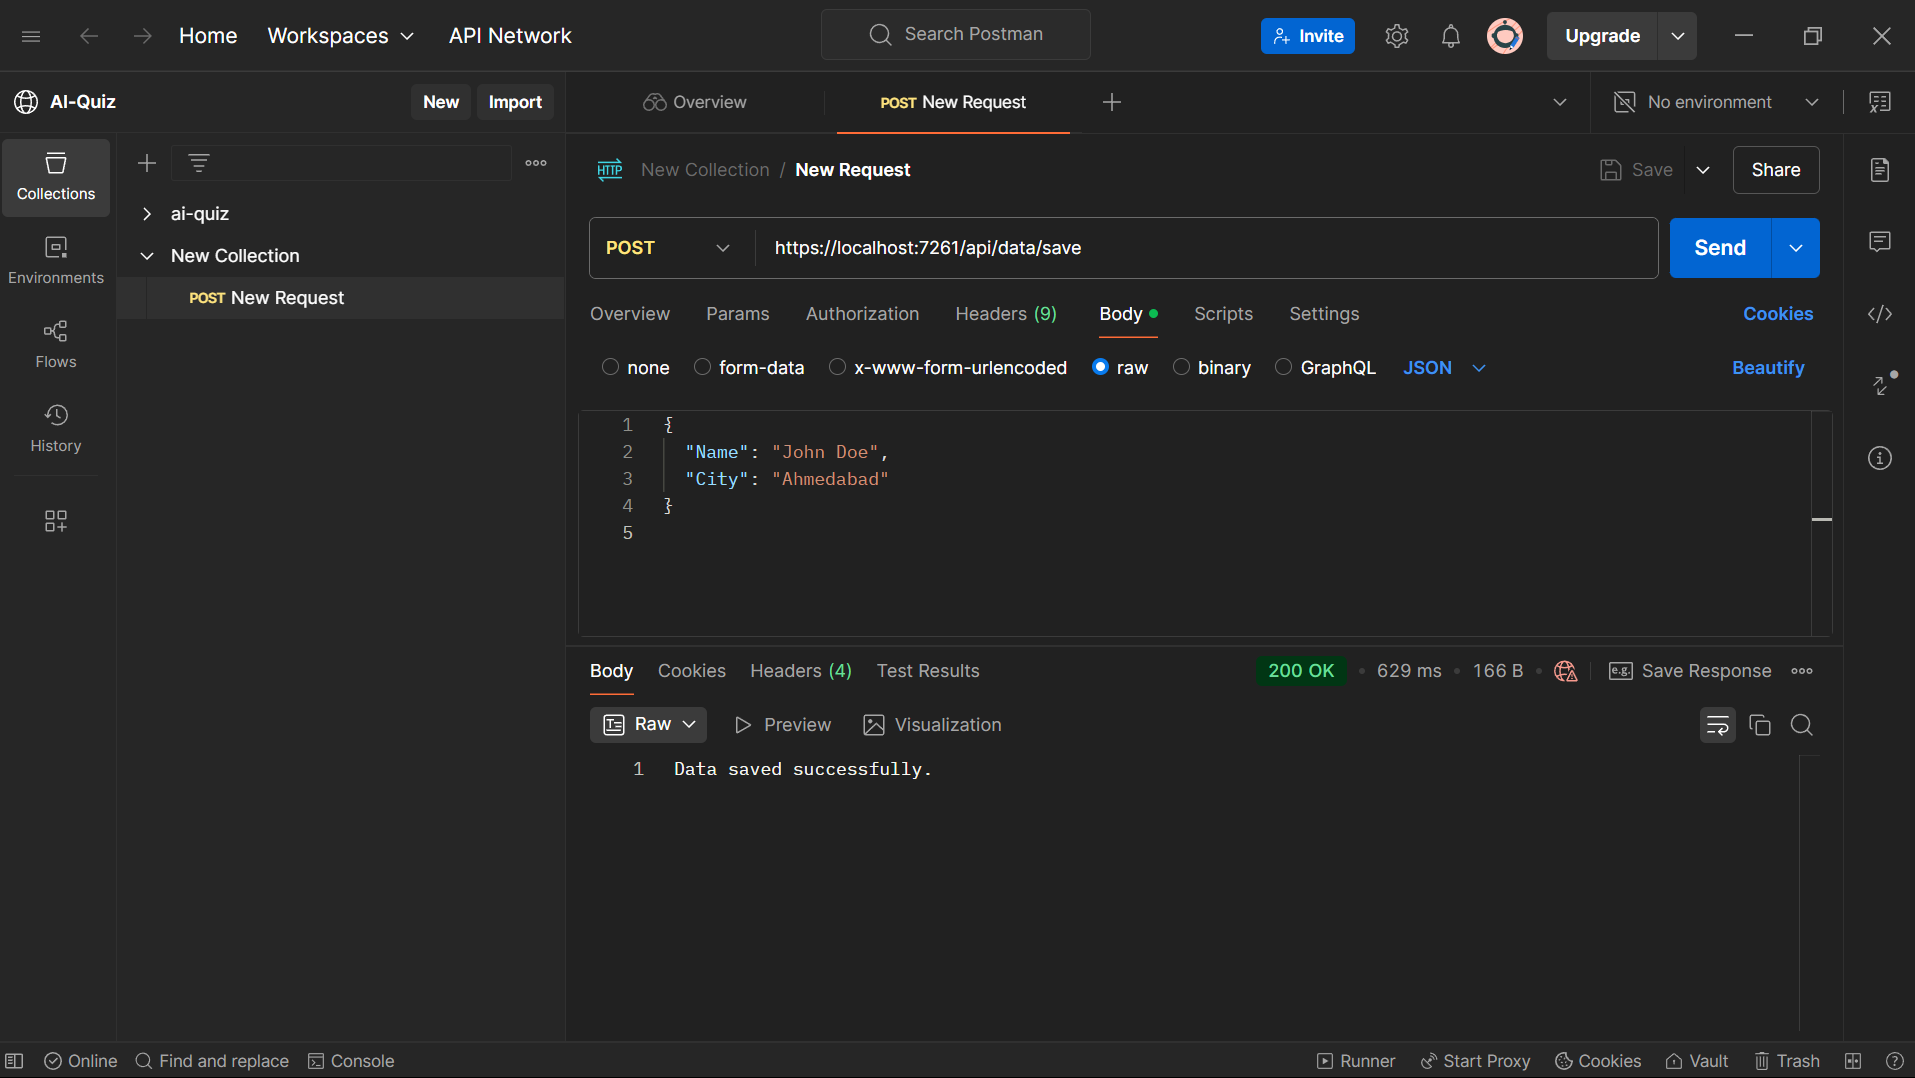
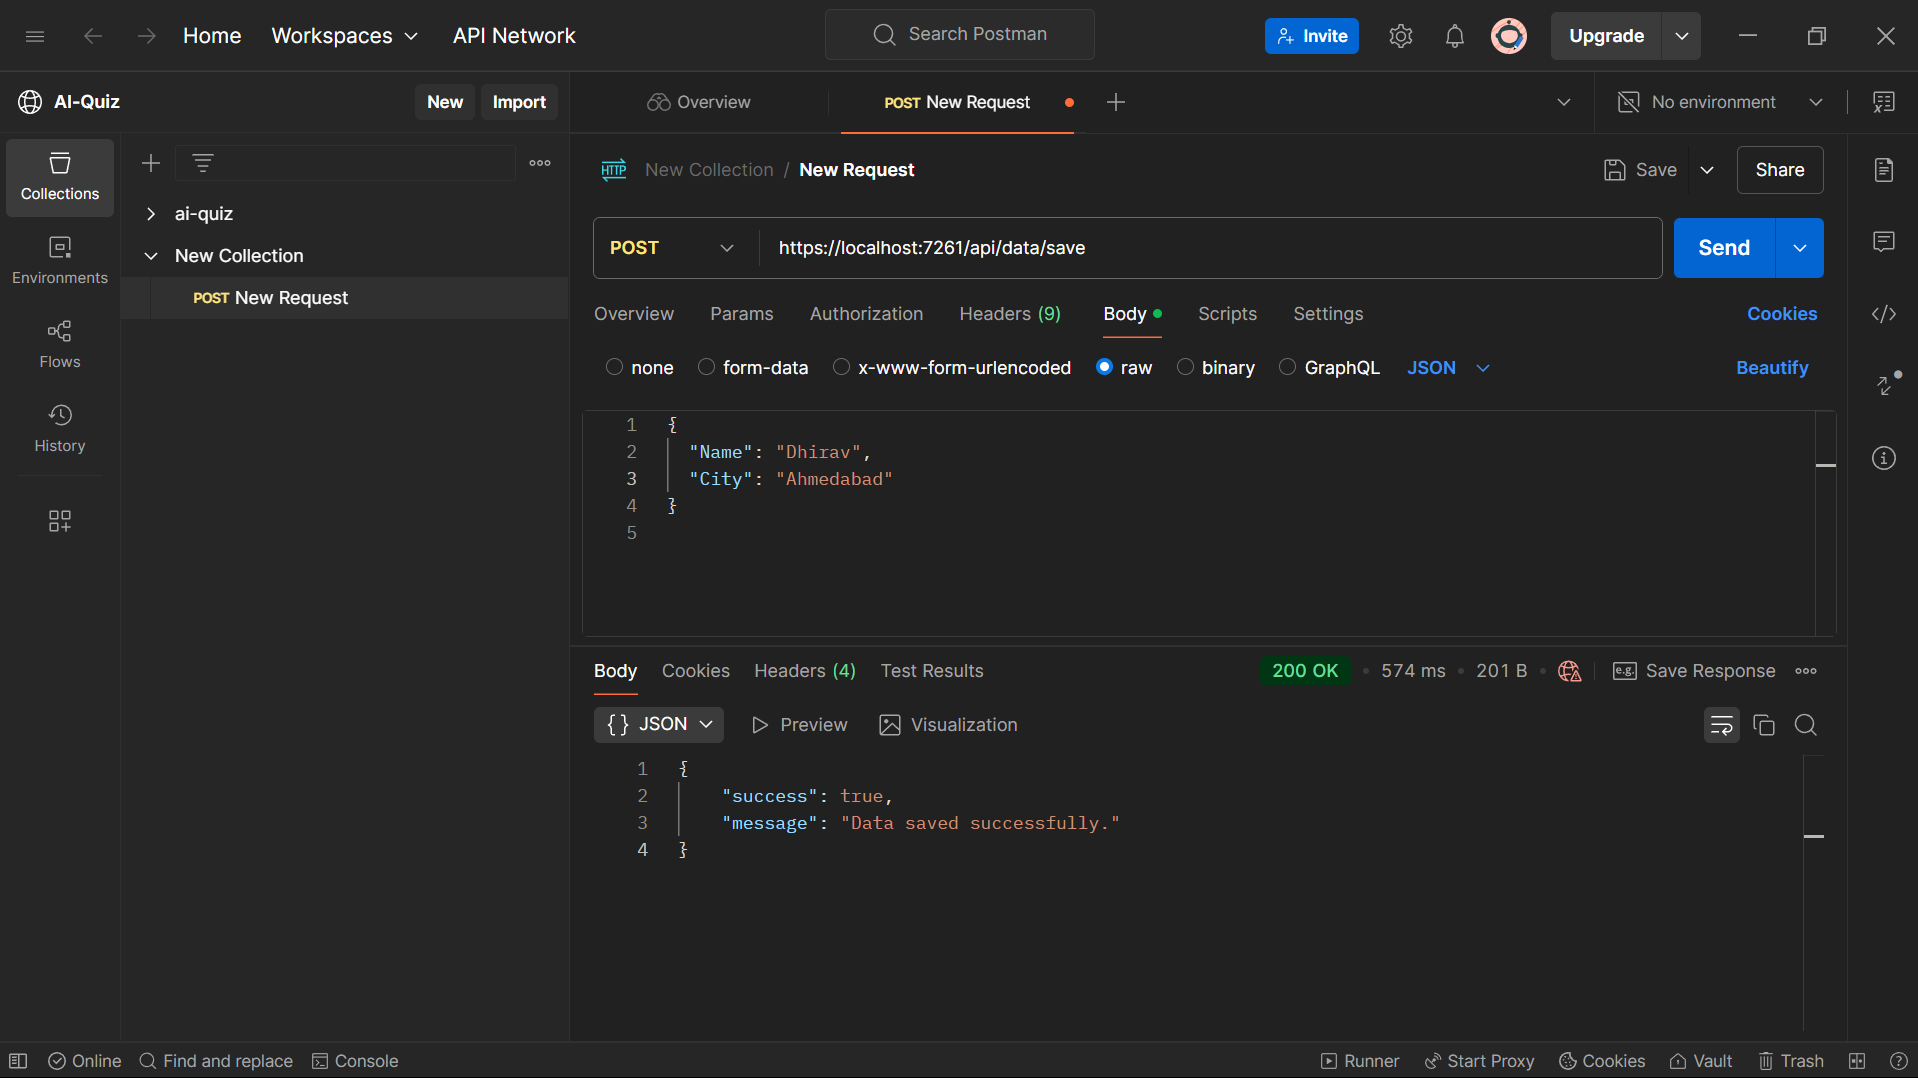
Update ....

diff --git a/ASP.Net Core Day1/Controllers/DataController.cs b/ASP.Net Core Day1/Controllers/DataController.cs
@@ -10,100 +10,75 @@ using System.ComponentModel.DataAnnotations;
 [ApiController]
 public class DataController : ControllerBase
 {
-    // Your WeatherAPI key
     private const string WeatherApiKey = "564f9dd8a1464c58a3981325251802";
-    private const string WeatherApiUrl = "http://api.weatherapi.com/v1/current.json"; // Change if necessary
+    private const string WeatherApiUrl = "http://api.weatherapi.com/v1/current.json";
 
     [HttpPost("save")]
     public async Task<IActionResult> SaveData([FromBody] CityRequest cityRequest)
     {
-        // Ensure the model is valid
         if (!ModelState.IsValid)
         {
-            return BadRequest("Invalid data. Ensure Name and City are provided.");
+            return BadRequest(new ResponseModel(false, "Invalid data. Ensure Name and City are provided."));
         }
 
-        // Normalize city to lowercase (you can also use proper title case if preferred)
         string normalizedCity = NormalizeCity(cityRequest.City);
 
         try
         {
-            // Fetch weather data for the city
             var weatherData = await GetWeatherData(normalizedCity);
 
-            // If no weather data is returned, it means the city wasn't found or there was an error
             if (weatherData == null)
             {
-                return BadRequest($"City '{normalizedCity}' not found or an error occurred fetching weather data.");
+                return BadRequest(new ResponseModel(false, $"City '{normalizedCity}' not found or an error occurred fetching weather data."));
             }
 
-            // Prepare data to save, including name, city, weather, and current date/time
             var dataToSave = new
             {
                 Name = cityRequest.Name,
-                City = normalizedCity,  // Store the normalized city name
-                Weather = weatherData,  // Store as a structured object
+                City = normalizedCity,
+                Weather = weatherData,
                 DateTime = DateTime.Now.ToString("yyyy-MM-dd HH:mm:ss")
             };
 
-            // Convert data to a formatted JSON string using Newtonsoft.Json
             string jsonString = JsonConvert.SerializeObject(dataToSave, Formatting.Indented);
-
-            // Define the file path (you can choose a different location as needed)
             string filePath = Path.Combine(Directory.GetCurrentDirectory(), "SavedData.txt");
 
-            // Append the JSON data to the file asynchronously
-            await System.IO.File.AppendAllTextAsync(filePath, jsonString + Environment.NewLine + Environment.NewLine + Environment.NewLine);
+            await System.IO.File.AppendAllTextAsync(filePath, jsonString + Environment.NewLine + Environment.NewLine);
 
-            // If everything is successful, return a success message
-            return Ok("Data saved successfully.");
+            return Ok(new ResponseModel(true, "Data saved successfully."));
         }
         catch (Exception ex)
         {
-            // Handle any unexpected exceptions
-            return StatusCode(500, $"Internal server error: {ex.Message}");
+            return StatusCode(500, new ResponseModel(false, $"Internal server error: {ex.Message}"));
         }
     }
 
-    // Normalize city name to lowercase (can also use TitleCase if preferred)
     private string NormalizeCity(string city)
     {
         if (string.IsNullOrEmpty(city))
         {
             throw new ArgumentException("City name cannot be empty.");
         }
-
-        // Convert city name to proper case (Title Case)
         return city.Trim().ToLower();
     }
 
-    // Fetch weather data for the specific city using the WeatherAPI
     private async Task<object> GetWeatherData(string city)
     {
         using (var client = new HttpClient())
         {
             try
             {
-                // Build the request URL
                 string requestUrl = $"{WeatherApiUrl}?key={WeatherApiKey}&q={city}&aqi=no";
-
-                // Send a GET request to WeatherAPI
                 var response = await client.GetStringAsync(requestUrl);
-
-                // Parse the response JSON
                 dynamic weatherResponse = JsonConvert.DeserializeObject(response);
 
-                // Check if the response contains an error (city not found)
                 if (weatherResponse.error != null)
                 {
-                    return null; // Return null if the city is not found
+                    return null;
                 }
 
-                // Extract relevant weather information from the response
                 var currentWeather = weatherResponse.current;
-
-                // Structured format of weather data
-                var weatherInfo = new
+                return new
                 {
                     Temperature = currentWeather.temp_c + "°C",
                     Condition = currentWeather.condition.text,
@@ -111,19 +86,14 @@ public class DataController : ControllerBase
                     Humidity = currentWeather.humidity + "%",
                     FeelsLike = currentWeather.feelslike_c + "°C"
                 };
-
-                // Return weather information as a structured object (not a string)
-                return weatherInfo;
             }
-            catch (Exception ex)
+            catch (Exception)
             {
-                // Handle error, return a fallback message if the API call fails
-                return null; // Return null when an error occurs
+                return null;
             }
         }
     }
 
-    // DTO to bind the incoming data (name and city)
     public class CityRequest
     {
         [Required(ErrorMessage = "Name is required.")]
@@ -131,5 +101,17 @@ public class DataController : ControllerBase
 
         [Required(ErrorMessage = "City is required.")]
         public string City { get; set; }
+    }
+
+    public class ResponseModel
+    {
+        public bool Success { get; set; }
+        public string Message { get; set; }
+
+        public ResponseModel(bool success, string message)
+        {
+            Success = success;
+            Message = message;
+        }
     }
 }
